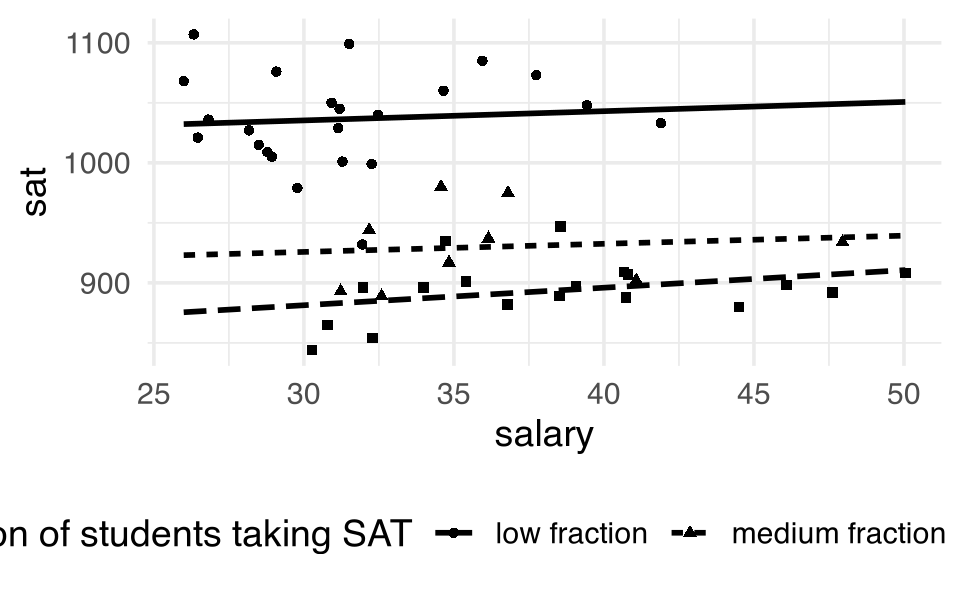
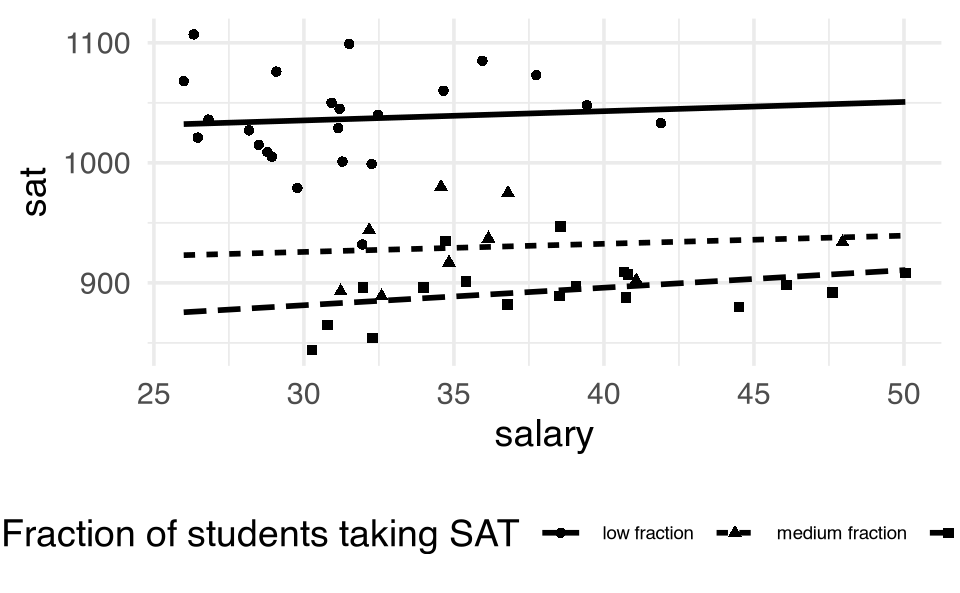
sat plot

Changed region(s): [[0.0, 0.8499, 1.0, 0.941]]

diff --git a/Math150/Notes/analysis-of-categorical-data.html b/Math150/Notes/analysis-of-categorical-data.html
@@ -1298,7 +1298,7 @@ OR &amp;=&amp; RR \ \ \bigg(\frac{n_1}{n_2} \bigg) \frac{n_2 - X_2}{n_1 - X_1}\\
 <footer class="bg-primary text-light mt-5"><div class="container"><div class="row">
 
   <div class="col-12 col-md-6 mt-3">
-    <p>"<strong>Methods in Biostatistics</strong>" was written by Jo Hardin. It was last built on 2025-02-24.</p>
+    <p>"<strong>Methods in Biostatistics</strong>" was written by Jo Hardin. It was last built on 2025-03-04.</p>
   </div>
 
   <div class="col-12 col-md-6 mt-3">

diff --git a/Math150/Notes/logreg.html b/Math150/Notes/logreg.html
@@ -1934,7 +1934,7 @@ where <span class="math inline">\(\nu\)</span> represents the difference in the 
 <footer class="bg-primary text-light mt-5"><div class="container"><div class="row">
 
   <div class="col-12 col-md-6 mt-3">
-    <p>"<strong>Methods in Biostatistics</strong>" was written by Jo Hardin. It was last built on 2025-02-24.</p>
+    <p>"<strong>Methods in Biostatistics</strong>" was written by Jo Hardin. It was last built on 2025-03-04.</p>
   </div>
 
   <div class="col-12 col-md-6 mt-3">

diff --git a/Math150/Notes/multiple-comparisons.html b/Math150/Notes/multiple-comparisons.html
@@ -1006,7 +1006,7 @@ data rigorously in a statistical and automated way. He explained that “scagnos
 <footer class="bg-primary text-light mt-5"><div class="container"><div class="row">
 
   <div class="col-12 col-md-6 mt-3">
-    <p>"<strong>Methods in Biostatistics</strong>" was written by Jo Hardin. It was last built on 2025-02-24.</p>
+    <p>"<strong>Methods in Biostatistics</strong>" was written by Jo Hardin. It was last built on 2025-03-04.</p>
   </div>
 
   <div class="col-12 col-md-6 mt-3">

diff --git a/Math150/Notes/process.html b/Math150/Notes/process.html
@@ -1550,7 +1550,7 @@ Figure 7.6: With the data split into three groups, we can see how 2/3 of the obs
 <footer class="bg-primary text-light mt-5"><div class="container"><div class="row">
 
   <div class="col-12 col-md-6 mt-3">
-    <p>"<strong>Methods in Biostatistics</strong>" was written by Jo Hardin. It was last built on 2025-02-24.</p>
+    <p>"<strong>Methods in Biostatistics</strong>" was written by Jo Hardin. It was last built on 2025-03-04.</p>
   </div>
 
   <div class="col-12 col-md-6 mt-3">

diff --git a/Math150/Notes/intro.html b/Math150/Notes/intro.html
@@ -206,7 +206,7 @@ Figure 2.2: <a href="https://jkrward.github.io/">Jessica Ward</a>, PhD student a
 <footer class="bg-primary text-light mt-5"><div class="container"><div class="row">
 
   <div class="col-12 col-md-6 mt-3">
-    <p>"<strong>Methods in Biostatistics</strong>" was written by Jo Hardin. It was last built on 2025-02-24.</p>
+    <p>"<strong>Methods in Biostatistics</strong>" was written by Jo Hardin. It was last built on 2025-03-04.</p>
   </div>
 
   <div class="col-12 col-md-6 mt-3">

diff --git a/Math150/Notes/references.html b/Math150/Notes/references.html
@@ -271,7 +271,7 @@ Yunda Huang et al. 2015. <span>“Effect of <span class="nocase">rAd5-Vector</sp
 <footer class="bg-primary text-light mt-5"><div class="container"><div class="row">
 
   <div class="col-12 col-md-6 mt-3">
-    <p>"<strong>Methods in Biostatistics</strong>" was written by Jo Hardin. It was last built on 2025-02-24.</p>
+    <p>"<strong>Methods in Biostatistics</strong>" was written by Jo Hardin. It was last built on 2025-03-04.</p>
   </div>
 
   <div class="col-12 col-md-6 mt-3">

diff --git a/Math150/Notes/t-tests-vs-slr.html b/Math150/Notes/t-tests-vs-slr.html
@@ -953,7 +953,7 @@ Figure 3.1: Figure taken from <span class="citation">(<a href="references.html#r
 <footer class="bg-primary text-light mt-5"><div class="container"><div class="row">
 
   <div class="col-12 col-md-6 mt-3">
-    <p>"<strong>Methods in Biostatistics</strong>" was written by Jo Hardin. It was last built on 2025-02-24.</p>
+    <p>"<strong>Methods in Biostatistics</strong>" was written by Jo Hardin. It was last built on 2025-03-04.</p>
   </div>
 
   <div class="col-12 col-md-6 mt-3">

diff --git a/Math150/Notes/404.html b/Math150/Notes/404.html
@@ -124,7 +124,7 @@ the table of contents to find the page you are looking for.</p>
 <footer class="bg-primary text-light mt-5"><div class="container"><div class="row">
 
   <div class="col-12 col-md-6 mt-3">
-    <p>"<strong>Methods in Biostatistics</strong>" was written by Jo Hardin. It was last built on 2025-02-24.</p>
+    <p>"<strong>Methods in Biostatistics</strong>" was written by Jo Hardin. It was last built on 2025-03-04.</p>
   </div>
 
   <div class="col-12 col-md-6 mt-3">

diff --git a/Math150/Notes/survival-analysis.html b/Math150/Notes/survival-analysis.html
@@ -3124,7 +3124,7 @@ n &amp;\geq \frac{16 \cdot 14^2}{4}\\
 <footer class="bg-primary text-light mt-5"><div class="container"><div class="row">
 
   <div class="col-12 col-md-6 mt-3">
-    <p>"<strong>Methods in Biostatistics</strong>" was written by Jo Hardin. It was last built on 2025-02-24.</p>
+    <p>"<strong>Methods in Biostatistics</strong>" was written by Jo Hardin. It was last built on 2025-03-04.</p>
   </div>
 
   <div class="col-12 col-md-6 mt-3">

diff --git a/Math150/Notes/poisson-regression.html b/Math150/Notes/poisson-regression.html
@@ -510,7 +510,7 @@ Var(Y_i) &amp;=&amp; \phi \mu_i\\
 <footer class="bg-primary text-light mt-5"><div class="container"><div class="row">
 
   <div class="col-12 col-md-6 mt-3">
-    <p>"<strong>Methods in Biostatistics</strong>" was written by Jo Hardin. It was last built on 2025-02-24.</p>
+    <p>"<strong>Methods in Biostatistics</strong>" was written by Jo Hardin. It was last built on 2025-03-04.</p>
   </div>
 
   <div class="col-12 col-md-6 mt-3">

diff --git a/Math150/Notes/rfunc.html b/Math150/Notes/rfunc.html
@@ -331,7 +331,7 @@ calculate the p-value
 <footer class="bg-primary text-light mt-5"><div class="container"><div class="row">
 
   <div class="col-12 col-md-6 mt-3">
-    <p>"<strong>Methods in Biostatistics</strong>" was written by Jo Hardin. It was last built on 2025-02-24.</p>
+    <p>"<strong>Methods in Biostatistics</strong>" was written by Jo Hardin. It was last built on 2025-03-04.</p>
   </div>
 
   <div class="col-12 col-md-6 mt-3">

diff --git a/Math150/Notes/SLR.html b/Math150/Notes/SLR.html
@@ -548,7 +548,7 @@ happy.lm |&gt;
 <footer class="bg-primary text-light mt-5"><div class="container"><div class="row">
 
   <div class="col-12 col-md-6 mt-3">
-    <p>"<strong>Methods in Biostatistics</strong>" was written by Jo Hardin. It was last built on 2025-02-24.</p>
+    <p>"<strong>Methods in Biostatistics</strong>" was written by Jo Hardin. It was last built on 2025-03-04.</p>
   </div>
 
   <div class="col-12 col-md-6 mt-3">
